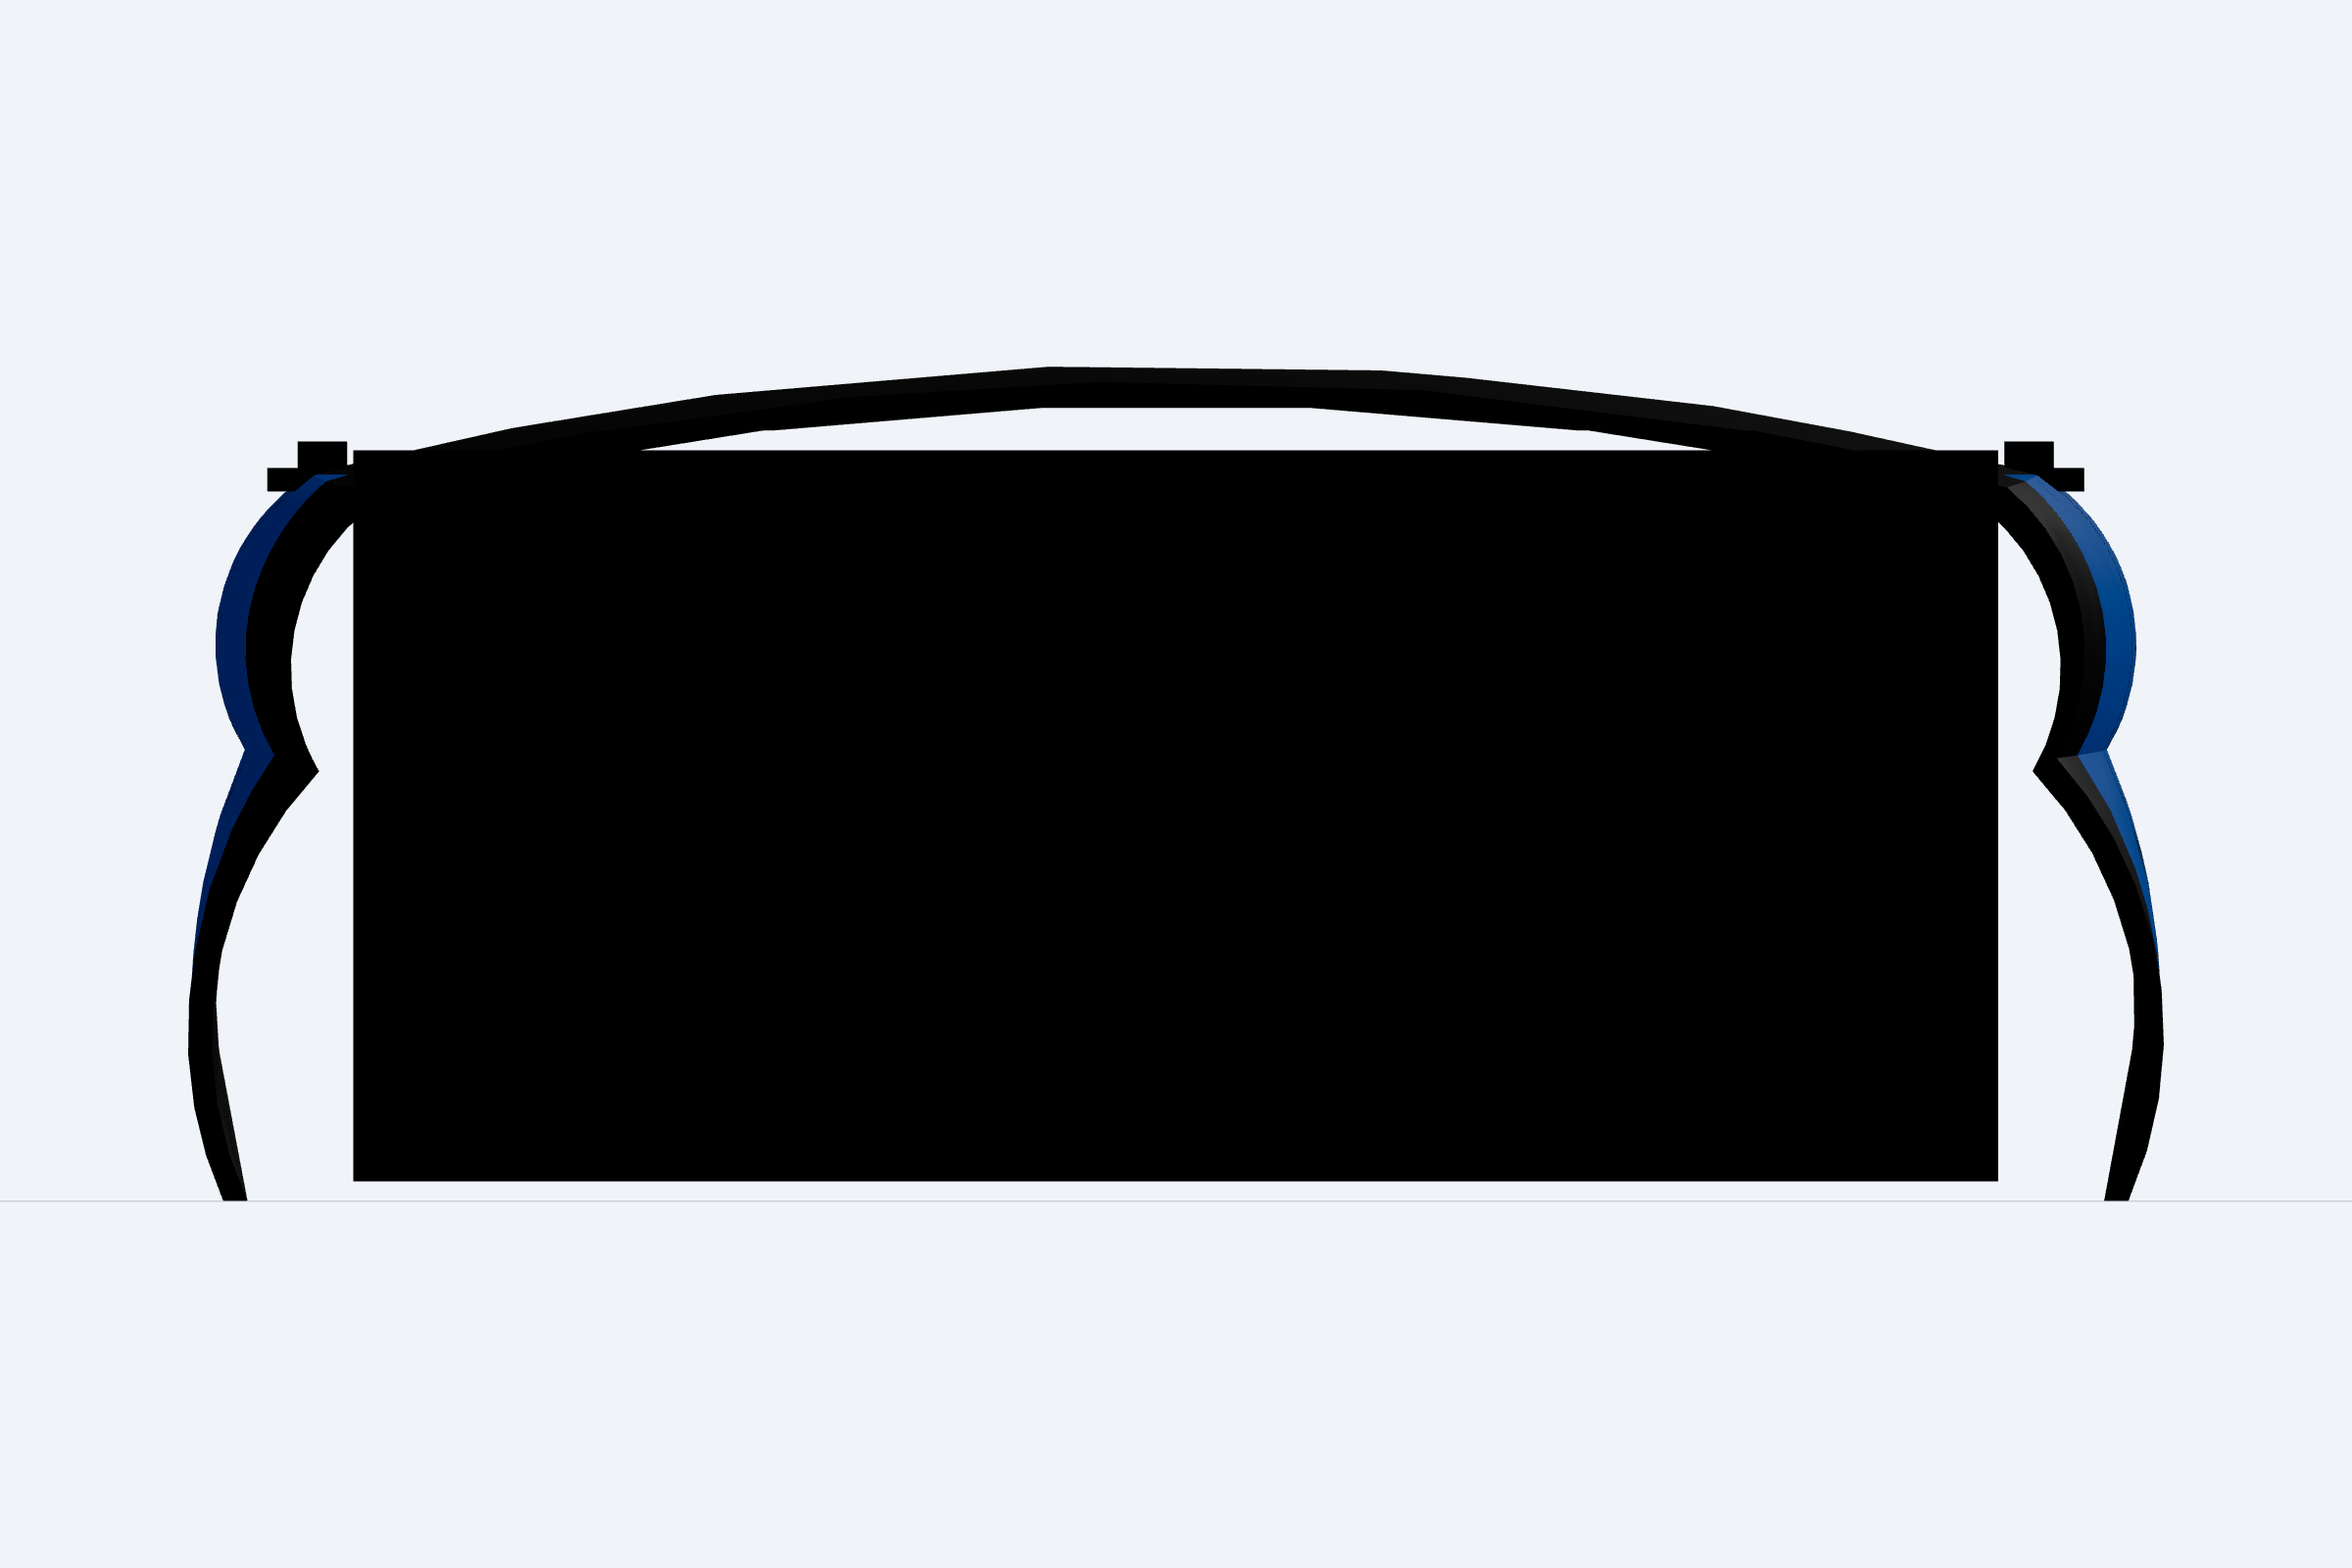
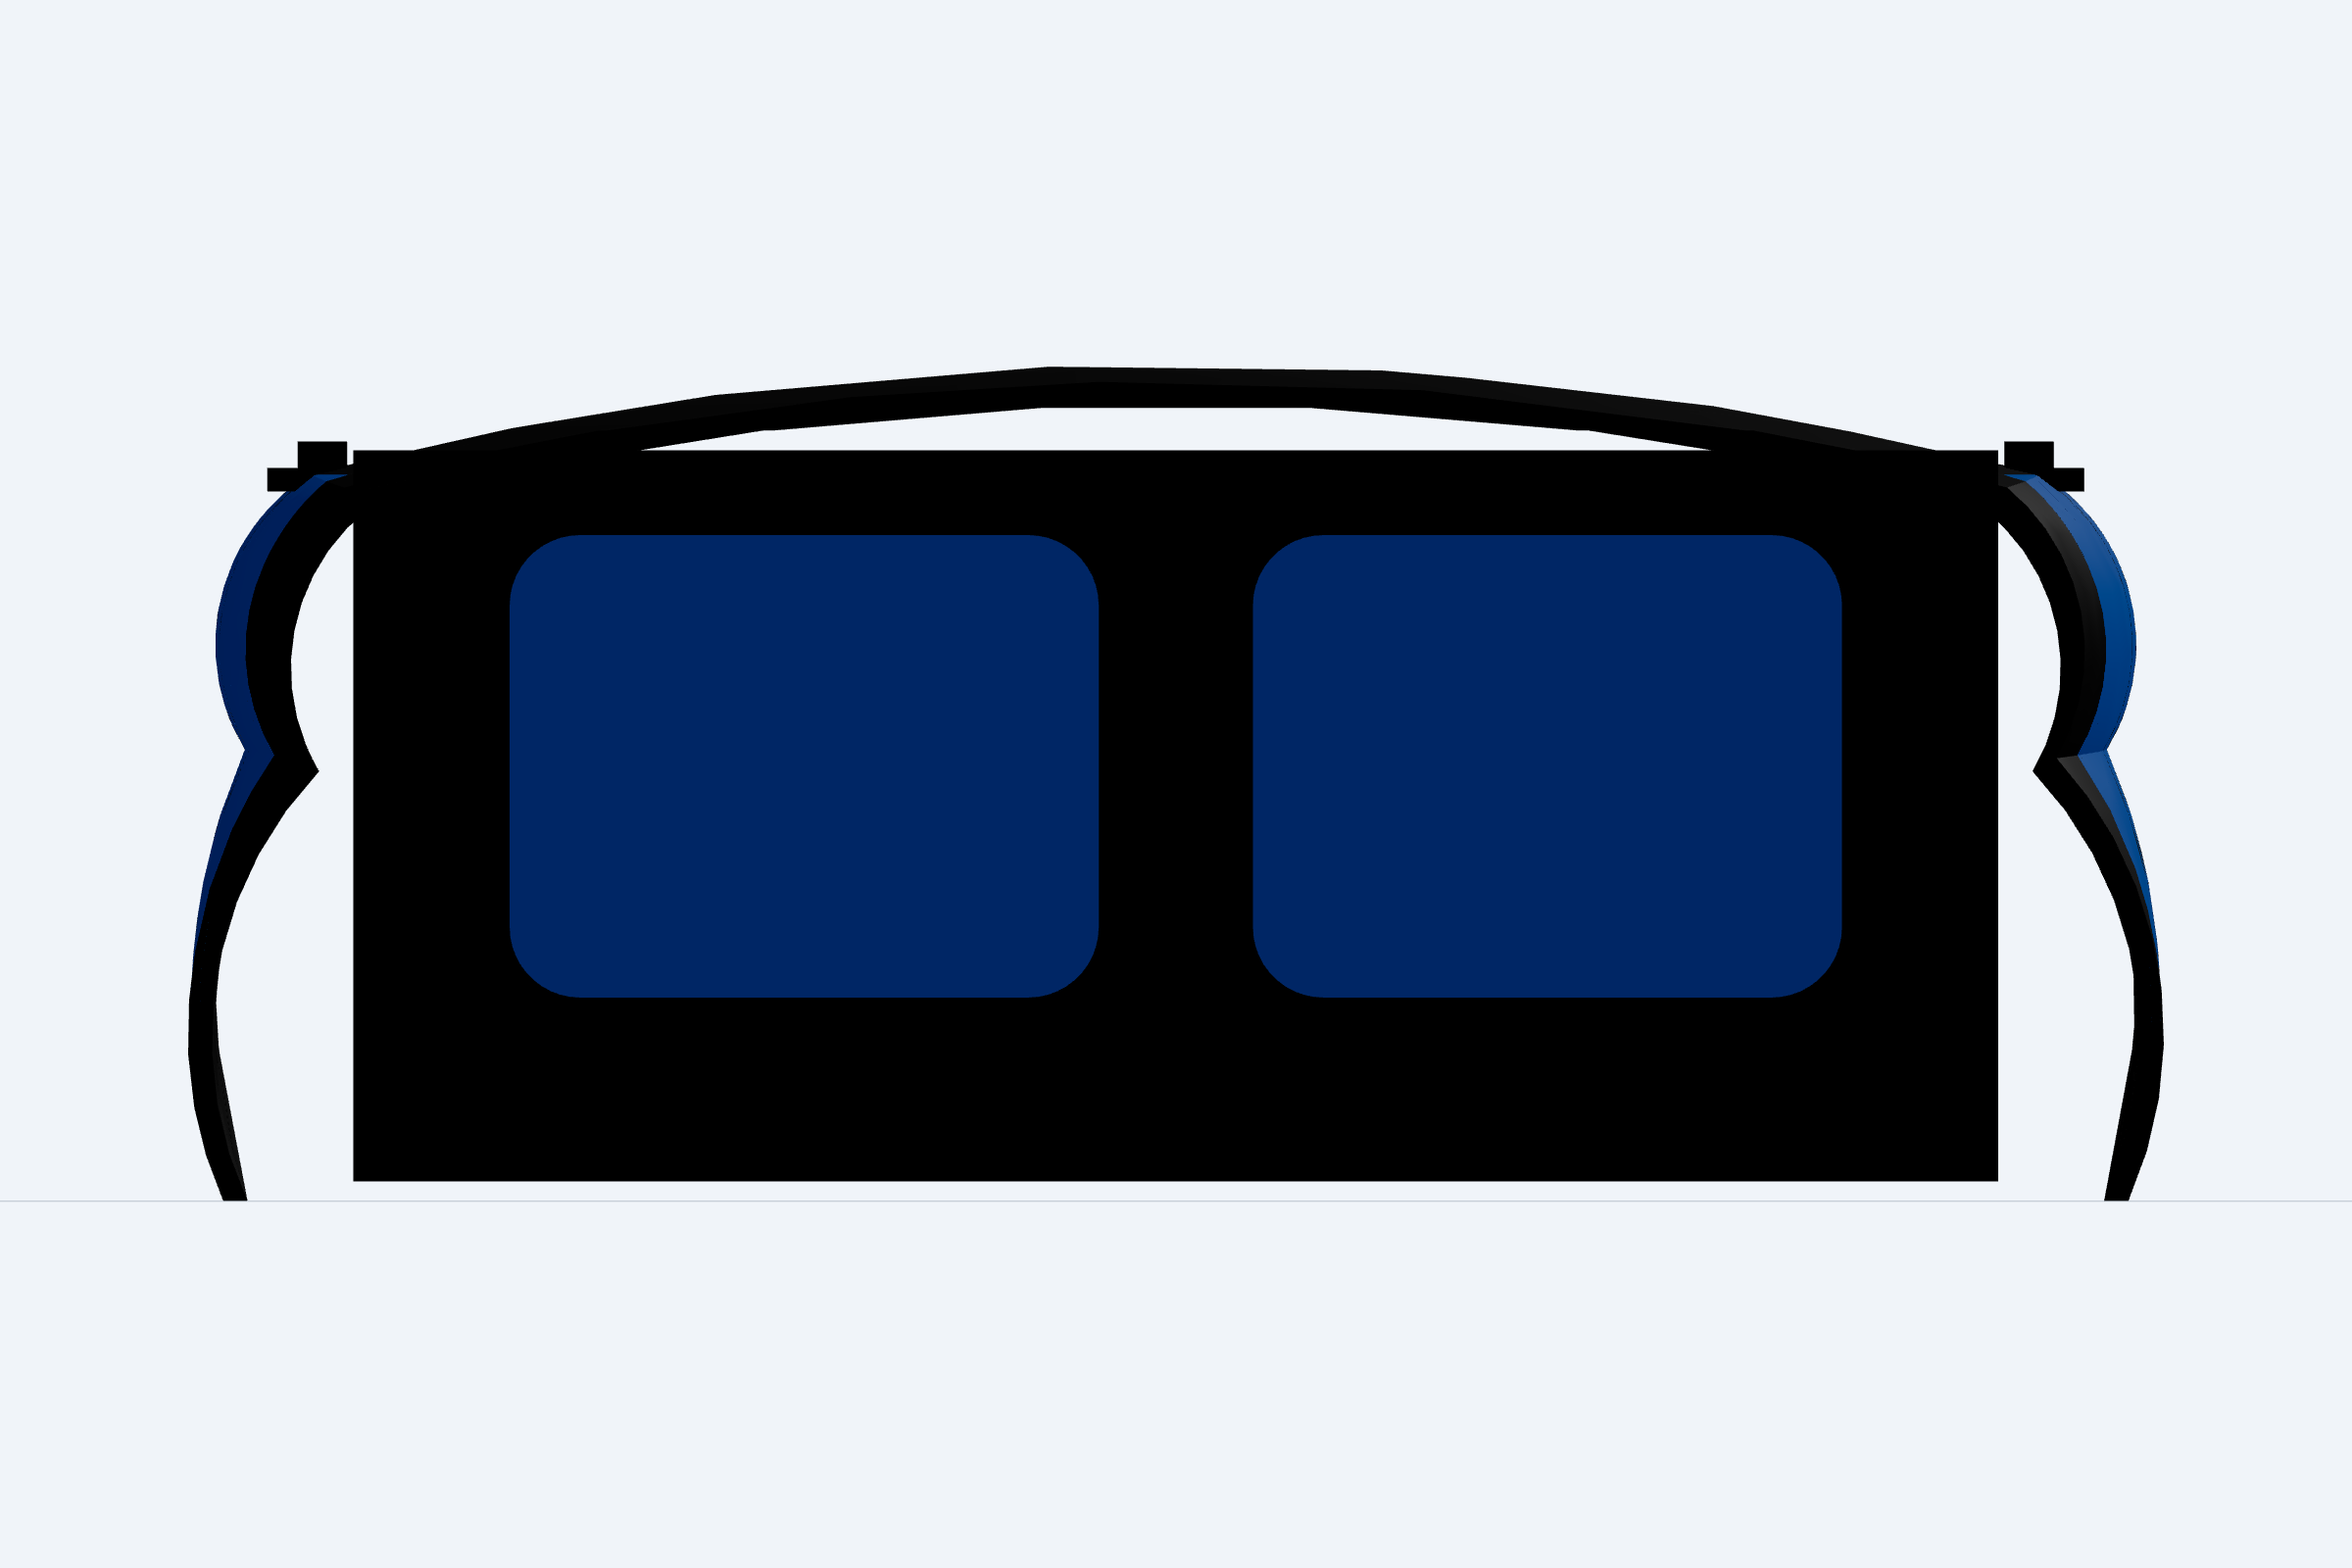
Fix Step 15 rear hatch glazing seating

Changed region(s): [[0.5312, 0.3438, 0.7812, 0.6562], [0.2188, 0.3438, 0.4688, 0.6562]]

diff --git a/models/r1t_topper/cad/visual_review_step15.py b/models/r1t_topper/cad/visual_review_step15.py
@@ -7,7 +7,7 @@ the rear with one real two-light hatch.  The presentation model is not a
 fitment, sealing, capacity, or fabrication-release claim.
 """
 
-from build123d import Align, Axis, Box, Color, Compound, Edge, Face, Location, Plane, RectangleRounded, Wire, extrude, loft
+from build123d import Align, Axis, Box, Color, Compound, Edge, Face, Location, Plane, Rectangle, RectangleRounded, Wire, extrude, loft
 from cadpy.assembly import AssemblyHelper
 
 from parameters import (
@@ -91,14 +91,10 @@ def _rounded_presentation_shell():
 
 def _side_window_selector(x_min: float, x_max: float, sign: float):
     side_y = value(topper_base_outer_width) / 2.0
-    profile = Plane.XZ * RectangleRounded(
-        x_max - x_min,
-        SIDE_WINDOW_Z_RANGE[1] - SIDE_WINDOW_Z_RANGE[0],
-        min(
-            WINDOW_CORNER_RADIUS,
-            (x_max - x_min) / 2.0 - 1.0,
-            (SIDE_WINDOW_Z_RANGE[1] - SIDE_WINDOW_Z_RANGE[0]) / 2.0 - 1.0,
-        ),
+    width, height = x_max - x_min, SIDE_WINDOW_Z_RANGE[1] - SIDE_WINDOW_Z_RANGE[0]
+    profile = Plane.XZ * (
+        RectangleRounded(width, height, min(WINDOW_CORNER_RADIUS, width / 2.0 - 1.0, height / 2.0 - 1.0))
+        if WINDOW_CORNER_RADIUS > 0.0 else Rectangle(width, height)
     )
     return extrude(profile, amount=SIDE_CUT_DEPTH / 2.0, both=True).moved(
         Location(((x_min + x_max) / 2.0, sign * side_y, sum(SIDE_WINDOW_Z_RANGE) / 2.0))
@@ -106,15 +102,15 @@ def _side_window_selector(x_min: float, x_max: float, sign: float):
 
 
 def _rear_window_selector(y_min: float, y_max: float, depth: float = 2.0 * value(wall_nominal_thickness)):
-    profile = Plane.YZ * RectangleRounded(
-        y_max - y_min,
-        REAR_WINDOW_Z_RANGE[1] - REAR_WINDOW_Z_RANGE[0],
-        REAR_WINDOW_CORNER_RADIUS,
+    width, height = y_max - y_min, REAR_WINDOW_Z_RANGE[1] - REAR_WINDOW_Z_RANGE[0]
+    profile = Plane.YZ * (
+        RectangleRounded(width, height, REAR_WINDOW_CORNER_RADIUS)
+        if REAR_WINDOW_CORNER_RADIUS > 0.0 else Rectangle(width, height)
     )
     return extrude(profile, amount=depth / 2.0, both=True).moved(
         Location(
             (
-                value(topper_overall_length) - value(wall_nominal_thickness) / 2.0,
+                value(topper_overall_length) + value(wall_nominal_thickness) / 2.0,
                 (y_min + y_max) / 2.0,
                 sum(REAR_WINDOW_Z_RANGE) / 2.0,
             )

diff --git a/models/r1t_topper/cad/step15_checks.py b/models/r1t_topper/cad/step15_checks.py
@@ -72,11 +72,15 @@ def _mutation_test() -> None:
         original = getattr(visual, attribute)
         setattr(visual, attribute, replacement)
         try:
-            _enforce(_contract_checks())
-        except Exception:
-            continue
+            checks = _contract_checks()
+        except Exception as error:
+            raise AssertionError(f"STEP15_MUTATION_CONSTRUCTION_ERROR: {name}: {error}") from error
         finally:
             setattr(visual, attribute, original)
+        try:
+            _enforce(checks)
+        except AssertionError:
+            continue
         survivors.append(name)
     assert not survivors, f"STEP15_MUTATION_SURVIVORS: {', '.join(survivors)}"
     print(f"STEP_15_MUTATION_TEST_PASS mutations={len(mutations)} all_rejected=true")
@@ -123,6 +127,15 @@ def _contract_checks() -> dict[str, bool]:
         "rounded_rear_window_profiles": visual.REAR_WINDOW_CORNER_RADIUS >= 50.0
         and any(edge.geom_type.name != "LINE" for edge in visual._rear_window_selector(*visual.REAR_WINDOW_Y_RANGES[0]).edges()),
         "single_closed_two_pane_hatch": hatch_leaf.label == "SINGLE_REAR_HATCH_LEAF_TWO_PANE_CONTINUOUS_CORNERS_PRESENTATION_ONLY" and len(hatch_leaf.solids()) == 1 and hatch_leaf.volume > 0.0,
+        "rear_apertures_cut_through_leaf": all(
+            (hatch_leaf & visual._rear_window_selector(y_min, y_max)).volume < 1e-6
+            for y_min, y_max in visual.REAR_WINDOW_Y_RANGES
+        ),
+        "rear_panes_seated_within_leaf_plane": all(
+            hatch_leaf.bounding_box().min.X <= pane.bounding_box().min.X
+            and pane.bounding_box().max.X <= hatch_leaf.bounding_box().max.X
+            for pane in rear_panes
+        ),
         "rear_hatch_corners_continuous": all((hatch_leaf & _rear_corner_selector(side)).volume > 0.0 for side in (-1.0, 1.0)),
         "b_side_hatch_system_complete": {child.label for child in b_side.children} == {
             "SINGLE_REAR_HATCH_FRAME_CONTINUOUS_PRESENTATION_ONLY",
